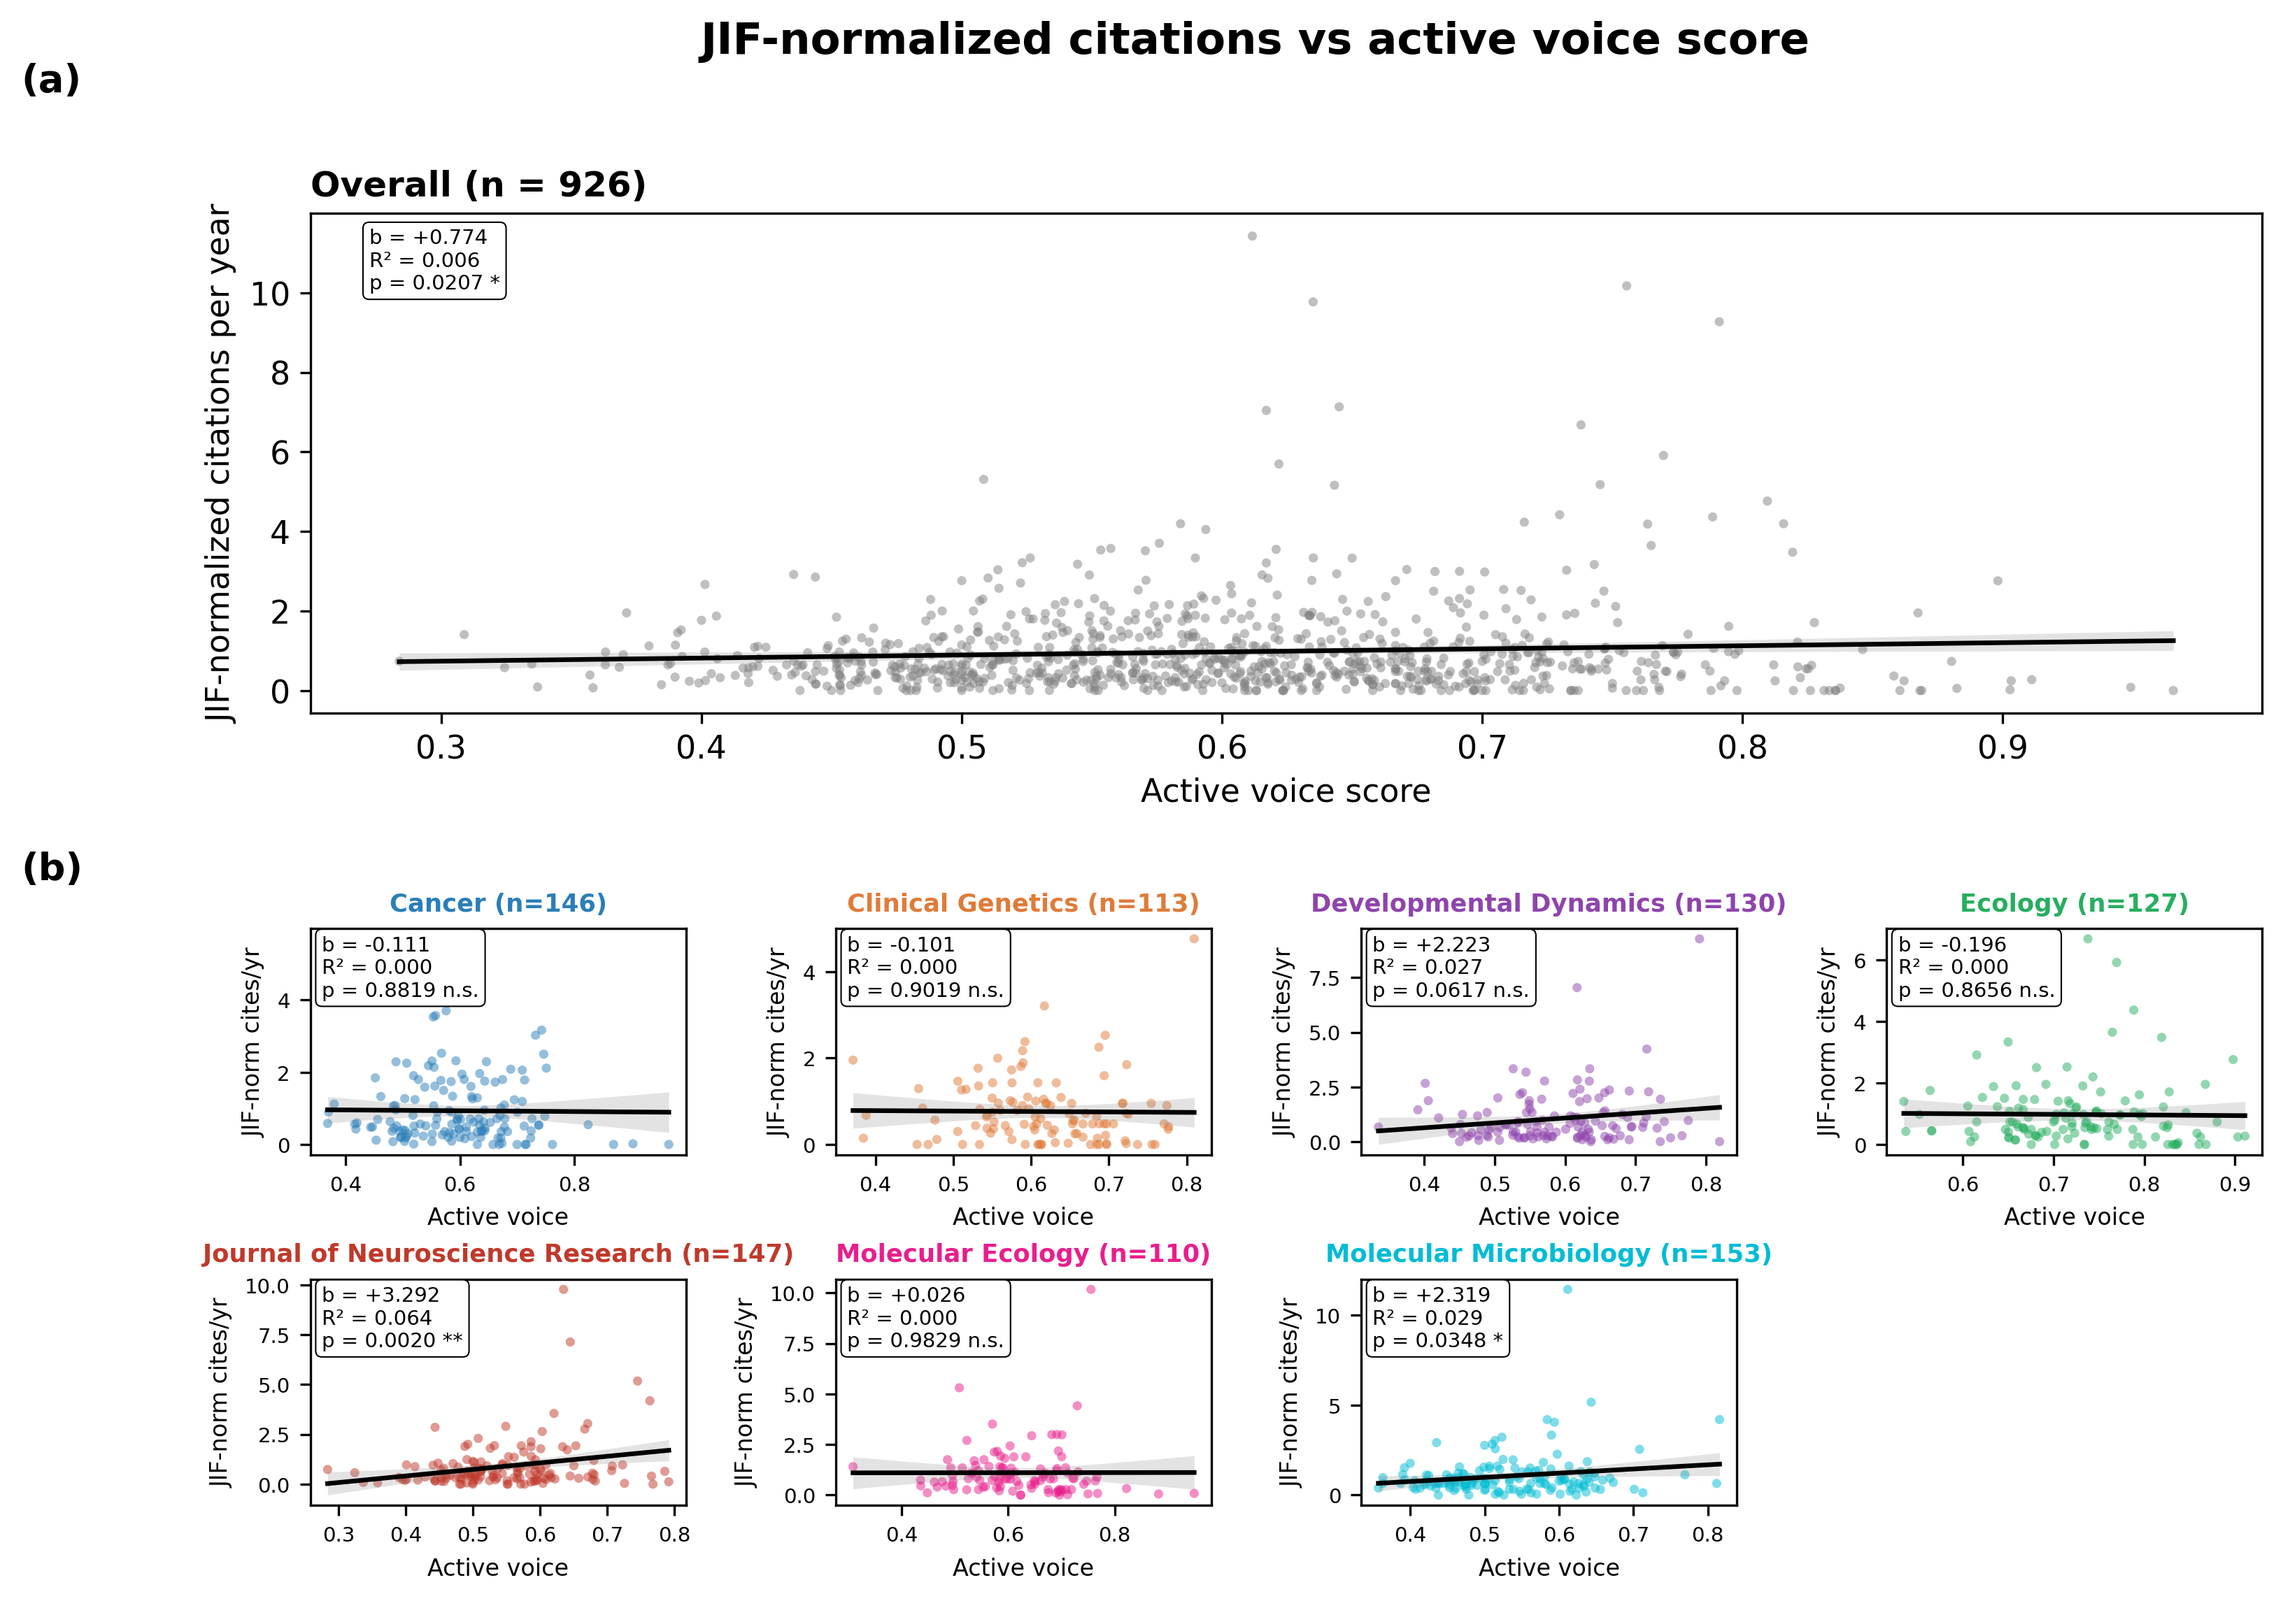
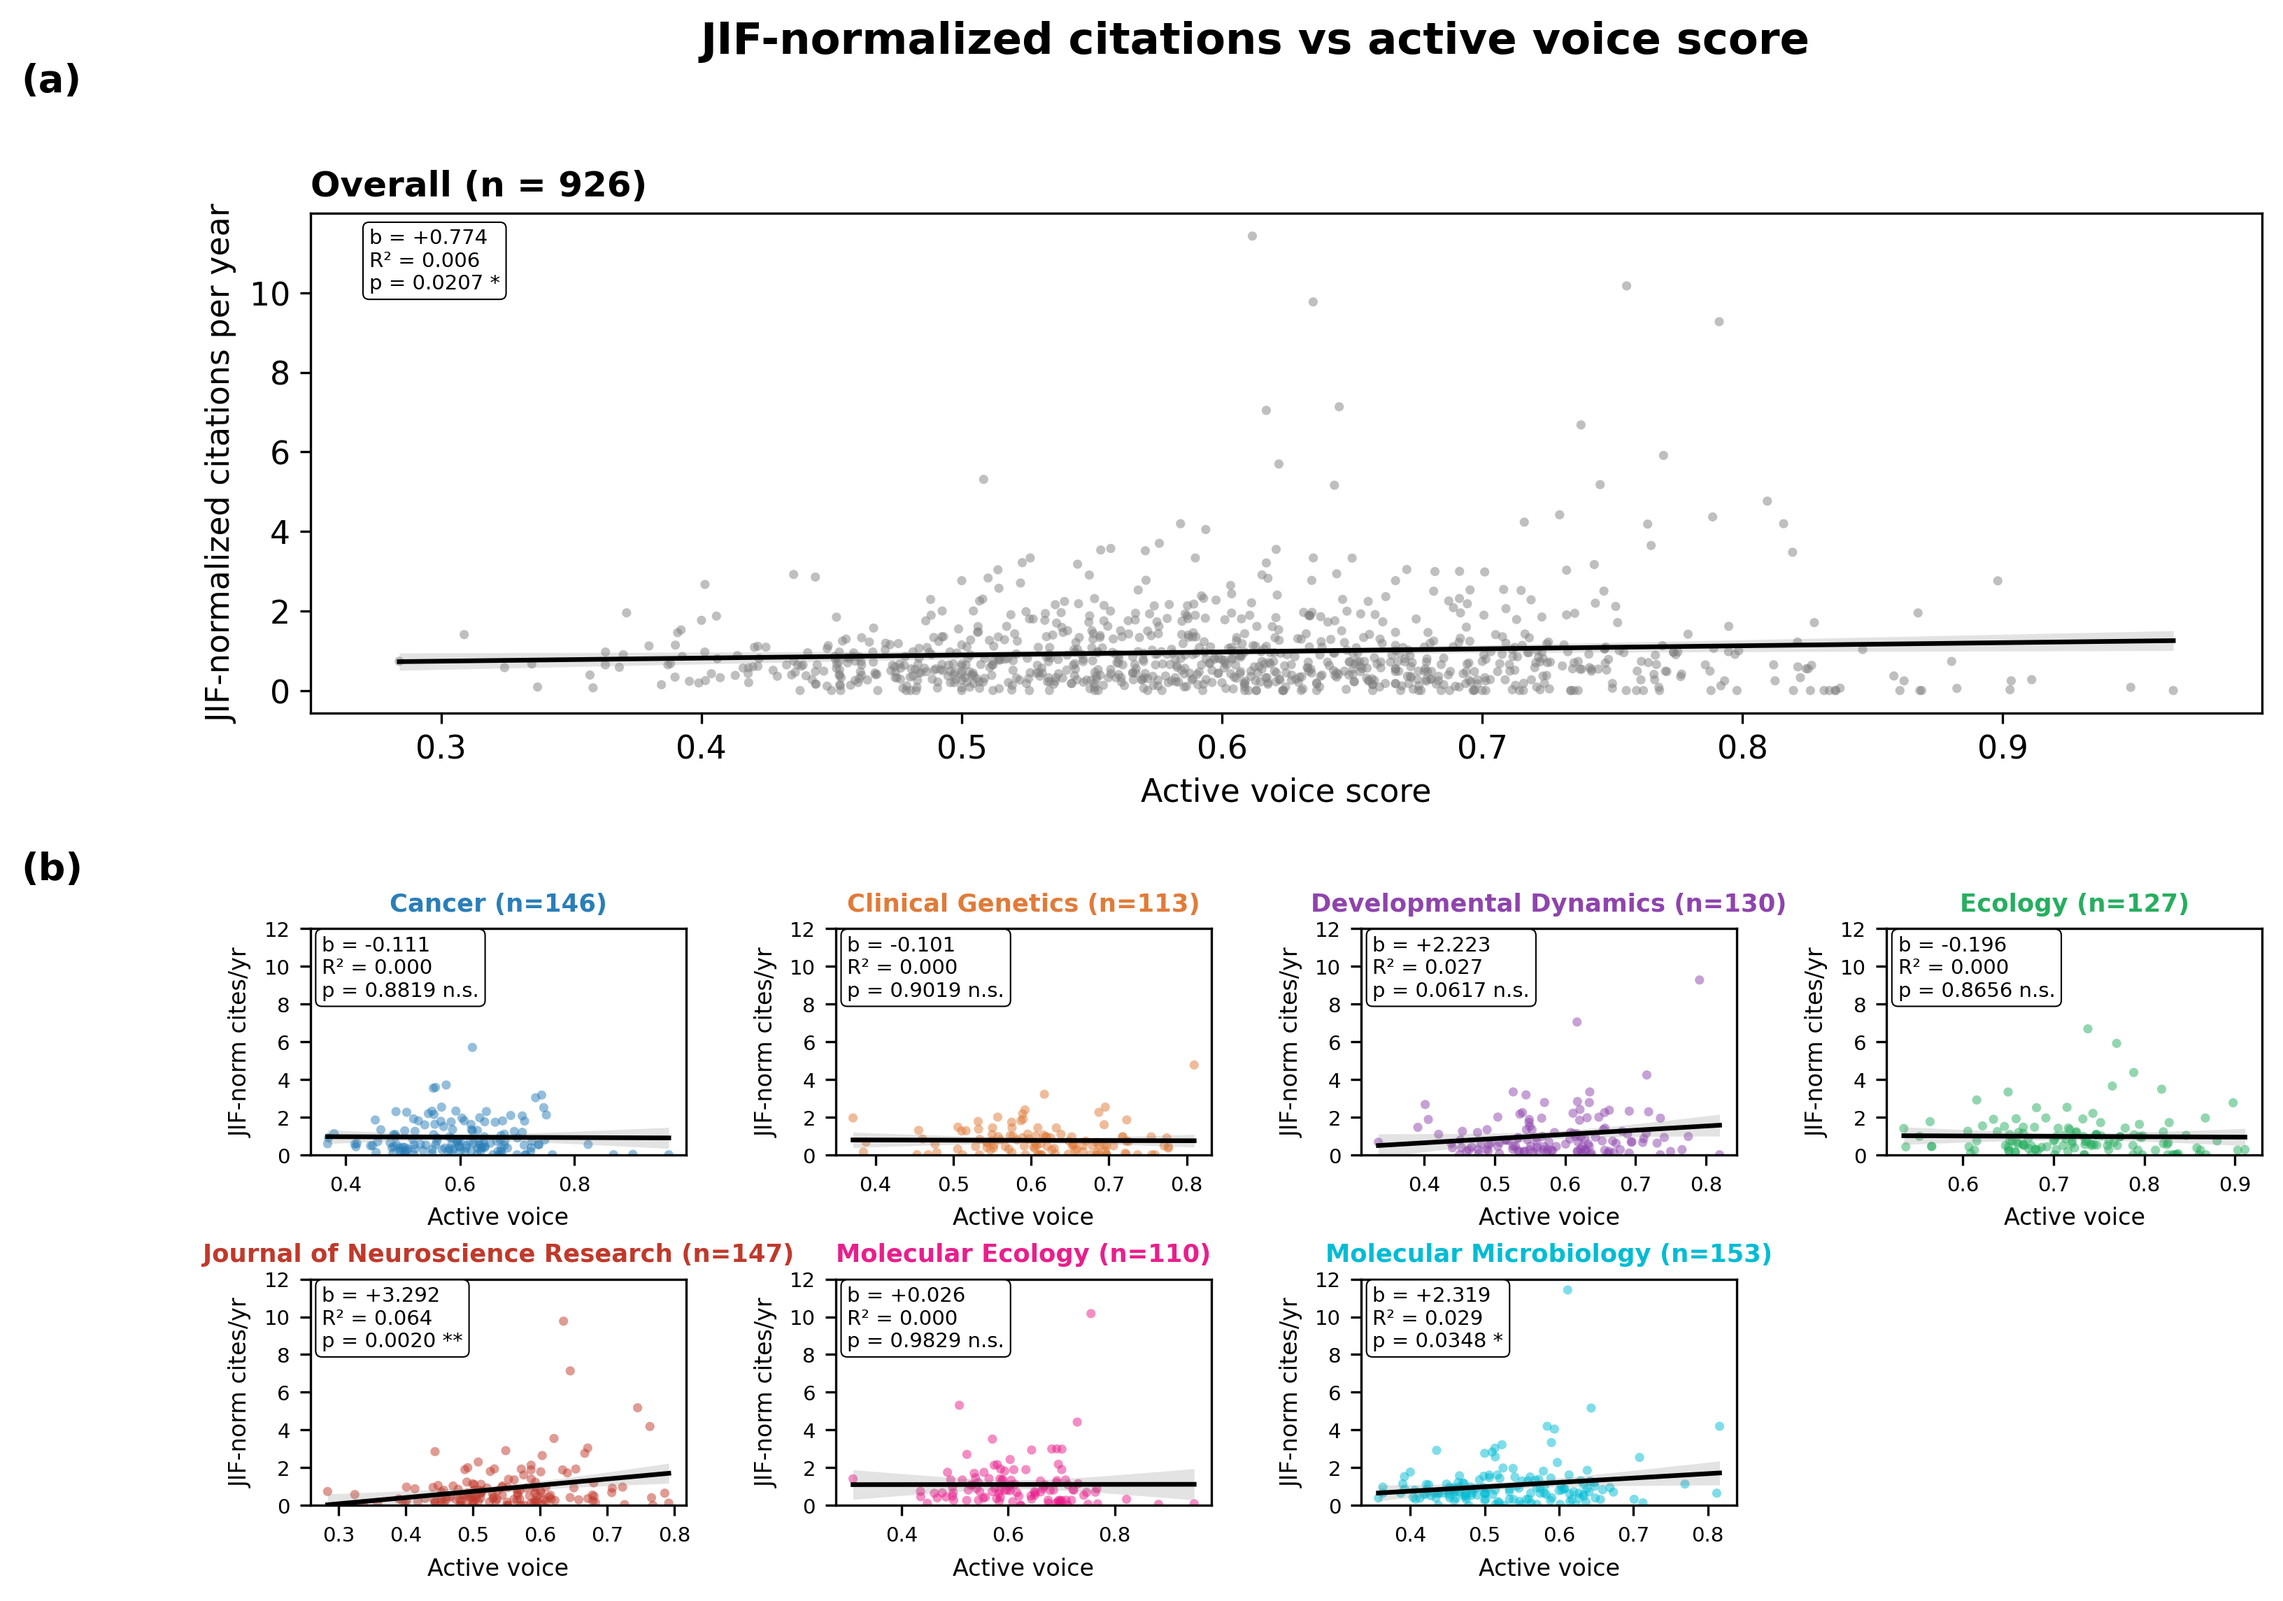
Fix Figure 3 y-axis: 0-12 with consistent ticks across panels

diff --git a/scripts/make_fig3_jif_normalized.py b/scripts/make_fig3_jif_normalized.py
@@ -122,12 +122,21 @@ cols = 4
 rows = int(np.ceil(len(journals) / cols))
 gs_b = gs[1].subgridspec(rows, cols, hspace=0.55, wspace=0.4)
 
+# Compute shared y-axis limits across all panels for comparability
+all_ynorm = df["jif_norm"].dropna()
+ymax_shared = 12
+yticks_shared = np.arange(0, 13, 2)
+print(f"Shared y-axis max: {ymax_shared:.2f}")
+
 for i, j in enumerate(journals):
     ax = fig.add_subplot(gs_b[i // cols, i % cols])
     sub = df[df["journal_clean"] == j]
     color = JOURNAL_COLORS.get(j, "#333333")
     scatter_fit(ax, sub[ratio_col].values, sub["jif_norm"].values, color=color)
     ax.set_title(f"{j} (n={len(sub)})", fontsize=8.5, fontweight="bold", color=color)
+    ax.set_ylim(0, ymax_shared)
+    ax.set_yticks(yticks_shared)
+    ax.set_yticks(yticks_shared)
     ax.set_xlabel("Active voice", fontsize=8)
     ax.set_ylabel("JIF-norm cites/yr", fontsize=8)
     ax.tick_params(labelsize=7)
